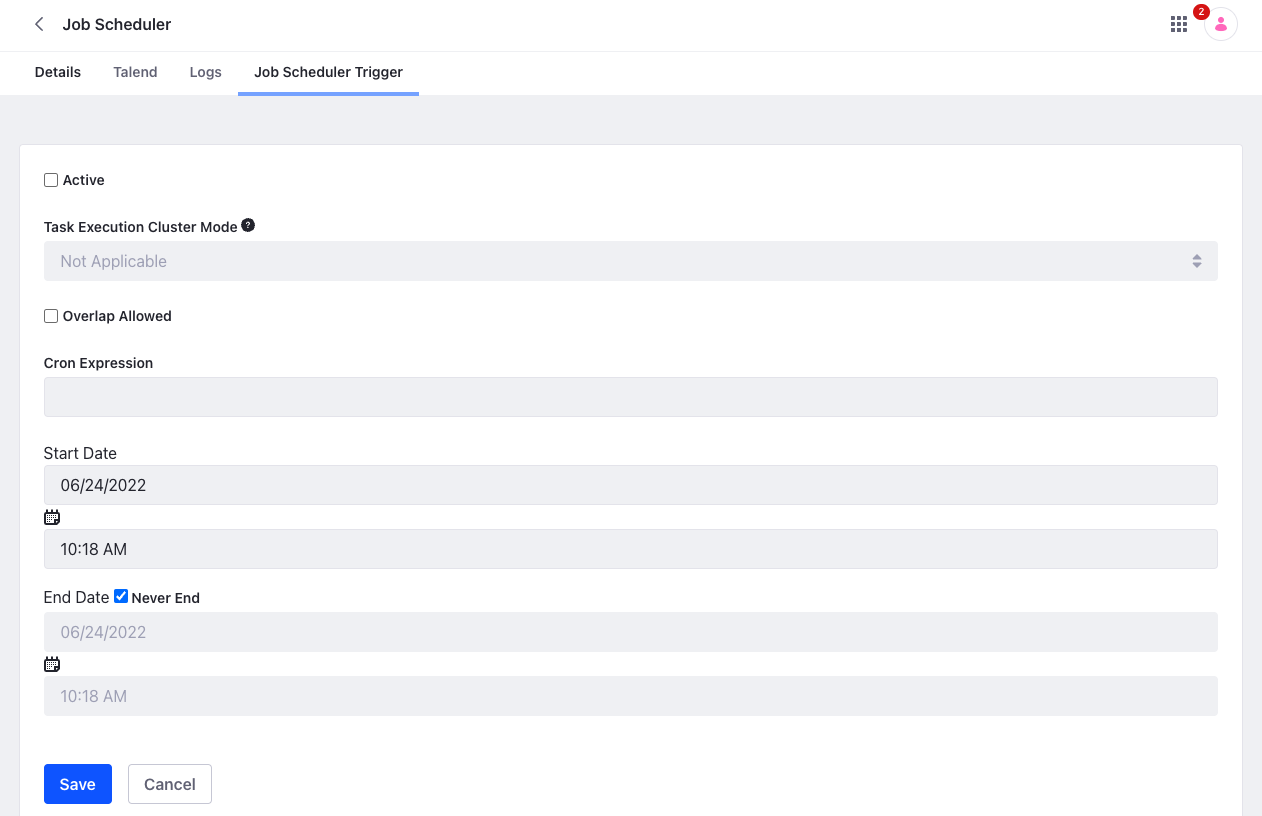
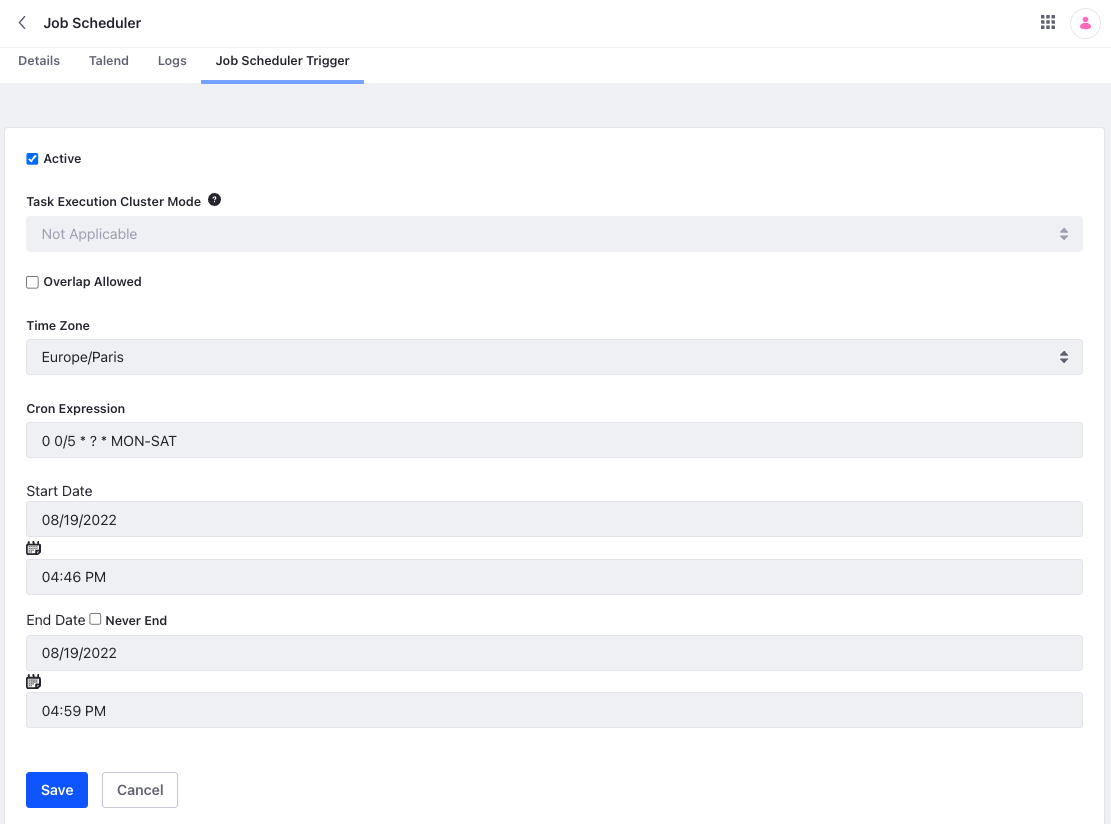
LRDOCS-10834 Added image, added Liferay version

diff --git a/docs/dxp/latest/en/building-applications/core-frameworks/job-scheduler-framework/job-scheduler-ui-reference.md b/docs/dxp/latest/en/building-applications/core-frameworks/job-scheduler-framework/job-scheduler-ui-reference.md
@@ -64,7 +64,7 @@ Configure the Job Scheduler Trigger to schedule task executions.
 | Active | Determines whether the configured schedule for execution is active or inactive |
 | Task Execution Cluster Mode | Determines whether the Job Scheduler task is executed on a *Single Node* or *All Nodes* in a clustered environment |
 | Overlap Allowed | Determines whether concurrent execution of Job Scheduler Tasks are allowed |
-| Time Zone | Define a time zone that is independent of your instance time zone for the execution of Job Scheduler tasks |
+| Time Zone | Define a time zone that is independent of your instance time zone for the execution of Job Scheduler tasks. This field is available starting from Liferay DXP 7.4 U35+/GA35+. |
 | Cron Expression | Defines time intervals for automatically executing Job Scheduler tasks |
 | Start Date | Defines when the Job Scheduler task begins to be executed according to the cron schedule; set to current date and time by default |
 | Never End | Determines whether the Job Scheduler task's automatic execution ever ends; checked by default |

diff --git a/docs/dxp/latest/en/building-applications/core-frameworks/job-scheduler-framework/using-job-scheduler.md b/docs/dxp/latest/en/building-applications/core-frameworks/job-scheduler-framework/using-job-scheduler.md
@@ -66,7 +66,7 @@ By default, all Job Scheduler task triggers are inactive at creation. Follow the
 
 **Overlap Allowed**: Enable or disable  concurrent execution for the Job Scheduler task. When enabled, new task executions are initiated according to the set schedule, regardless of whether a previous execution is still running.
 
-**Time Zone**: Select a time zone for the execution of the Job Scheduler task. This is independent of the time zone of your Liferay instance.  
+**Time Zone**: Select a time zone for the execution of the Job Scheduler task. This is independent of the time zone of your Liferay instance. This field is available starting from Liferay DXP 7.4 U35+/GA35+.  
 
 **Cron Expression**: Enter a valid Cron expression to determine when the Job Scheduler task is executed.
 
